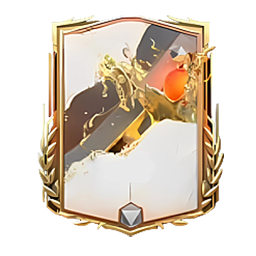
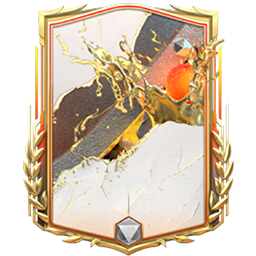
Updated FCMSquad

diff --git a/fcmsquad/resources/mainData.js b/fcmsquad/resources/mainData.js
@@ -2412,5 +2412,6 @@ const cardData = [
     {idx: 138, code: "TI24", name: "트로피 아이콘_Low", otherNames: ["트로피", "트아", "118", "공짜"], image: "./resources/cards/TrophyIcons_Low.png", type: "fc", color: "#664B00"},
     {idx: 139, code: "FD24", name: "Founders24_Low", otherNames: ["파운더스24", "파운더스", "1차", "파더", "아빠", "녹즙"], image: "./resources/cards/Founders24_Low.png", type: "fm", color: "white"},
     {idx: 140, code: "HEROES24", name: "Hero24", otherNames: ["히어로24", "히어로", "카툰", "24히어로"], image: "./resources/cards/Heroes24.png", type: "fc", color: "white"},
-    {idx: 141, code: "HEROES24", name: "UnsungHero24", otherNames: ["히어로24", "히어로", "카툰", "언성", "UH", "언성히어로", "24히어로"], image: "./resources/cards/Heroes24_Unsung.png", type: "fc", color: "white"}
+    {idx: 141, code: "HEROES24", name: "UnsungHero24", otherNames: ["히어로24", "히어로", "카툰", "언성", "UH", "언성히어로", "24히어로"], image: "./resources/cards/Heroes24_Unsung.png", type: "fc", color: "white"},
+    {idx: 142, code: "HEROES24", name: "Hero24_UCL", otherNames: ["히어로24", "히어로", "카툰", "UCL", "챔스", "24히어로"], image: "./resources/cards/Heroes24_UCL.png", type: "fc", color: "white"}
 ];
